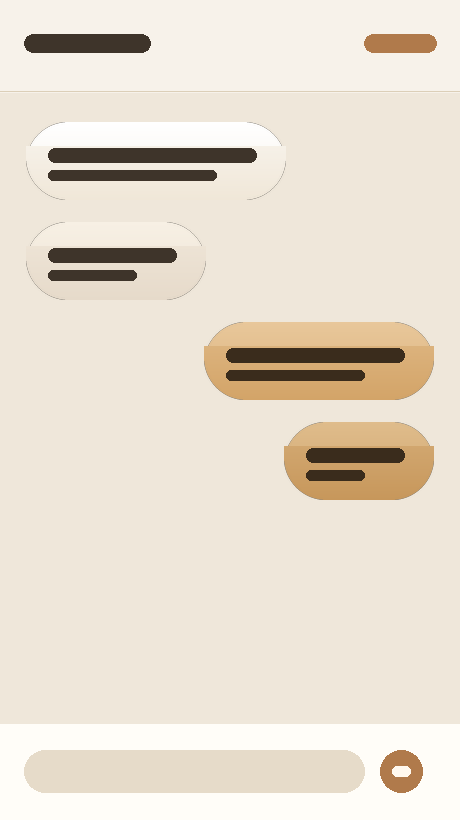
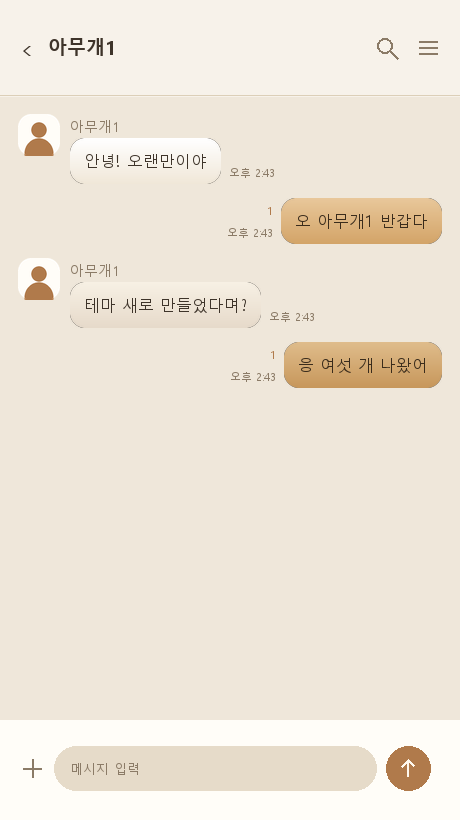
미리보기를 실제 카카오톡 화면처럼 그리고 릴리스 제목 깨짐을 고친다
미리보기에 맑은 고딕으로 진짜 글자를 넣었다. 아무개1 과 인삿말을 주고받는 화면이고,
프로필과 시간, 안 읽은 수, 입력바까지 그린다. 색만 칠한 막대였을 때는 이 색이 실제로
어떻게 보일지 가늠이 안 됐다.

말풍선 모서리가 깨지던 것도 고쳤다. 9-slice 로 늘리고 있었는데 목표 크기가 고정
가장자리의 두 배보다 작아지면 모서리가 겹친다. 어차피 둥근 사각형이라 필요한 크기로
직접 그리면 된다.

아이콘은 글꼴 글리프 대신 도형으로 그린다. 맑은 고딕에 없는 문자라 네모로 나왔다.

릴리스 제목이 "移댁뭅?ㅽ넚" 으로 깨지던 건 PowerShell 이 한글을 명령줄 인자로 넘길 때
시스템 코드페이지로 인코딩하기 때문이다. 태그 메시지는 git tag -F 로, 릴리스 제목은
gh api --input 으로 파일을 거쳐 보낸다. v0.3 제목은 API 로 이미 고쳤다.

diff --git a/docs/index.html b/docs/index.html
@@ -29,42 +29,42 @@
 <section class="card">
   <h2>먹빛 민트 <small>inkmint01</small></h2>
   <div class="chips"><span class="chip" style="background:#16181C" title="bg"></span><span class="chip" style="background:#101215" title="bg_deep"></span><span class="chip" style="background:#1E2126" title="surface"></span><span class="chip" style="background:#4FD1B0" title="accent"></span><span class="chip" style="background:#E8EBEE" title="text"></span></div>
-  <div class="shots"><figure><img src="preview-inkmint01-list.png" alt="먹빛 민트 목록"><figcaption>목록</figcaption></figure><figure><img src="preview-inkmint01-chat.png" alt="먹빛 민트 채팅방"><figcaption>채팅방</figcaption></figure><figure><img src="preview-inkmint01-splash.png" alt="먹빛 민트 실행화면"><figcaption>실행화면</figcaption></figure></div>
+  <div class="shots"><figure><img src="preview-inkmint01-list.png" alt="먹빛 민트 채팅 목록"><figcaption>채팅 목록</figcaption></figure><figure><img src="preview-inkmint01-chat.png" alt="먹빛 민트 채팅방"><figcaption>채팅방</figcaption></figure><figure><img src="preview-inkmint01-splash.png" alt="먹빛 민트 실행화면"><figcaption>실행화면</figcaption></figure></div>
   <p class="dl"><a href="../dist/iOS/inkmint01.ktheme">iOS .ktheme</a> &middot;
      <a href="../dist/android/inkmint01.apk">Android .apk</a></p>
 </section>
 <section class="card">
   <h2>크림 라떼 <small>cream02</small></h2>
   <div class="chips"><span class="chip" style="background:#F7F2EA" title="bg"></span><span class="chip" style="background:#EFE7DA" title="bg_deep"></span><span class="chip" style="background:#FFFDF8" title="surface"></span><span class="chip" style="background:#B07A4B" title="accent"></span><span class="chip" style="background:#3E342A" title="text"></span></div>
-  <div class="shots"><figure><img src="preview-cream02-list.png" alt="크림 라떼 목록"><figcaption>목록</figcaption></figure><figure><img src="preview-cream02-chat.png" alt="크림 라떼 채팅방"><figcaption>채팅방</figcaption></figure><figure><img src="preview-cream02-splash.png" alt="크림 라떼 실행화면"><figcaption>실행화면</figcaption></figure></div>
+  <div class="shots"><figure><img src="preview-cream02-list.png" alt="크림 라떼 채팅 목록"><figcaption>채팅 목록</figcaption></figure><figure><img src="preview-cream02-chat.png" alt="크림 라떼 채팅방"><figcaption>채팅방</figcaption></figure><figure><img src="preview-cream02-splash.png" alt="크림 라떼 실행화면"><figcaption>실행화면</figcaption></figure></div>
   <p class="dl"><a href="../dist/iOS/cream02.ktheme">iOS .ktheme</a> &middot;
      <a href="../dist/android/cream02.apk">Android .apk</a></p>
 </section>
 <section class="card">
   <h2>벚꽃 그늘 <small>sakura03</small></h2>
   <div class="chips"><span class="chip" style="background:#FFF6F7" title="bg"></span><span class="chip" style="background:#FDEDF0" title="bg_deep"></span><span class="chip" style="background:#FFFFFF" title="surface"></span><span class="chip" style="background:#E0698C" title="accent"></span><span class="chip" style="background:#4A3239" title="text"></span></div>
-  <div class="shots"><figure><img src="preview-sakura03-list.png" alt="벚꽃 그늘 목록"><figcaption>목록</figcaption></figure><figure><img src="preview-sakura03-chat.png" alt="벚꽃 그늘 채팅방"><figcaption>채팅방</figcaption></figure><figure><img src="preview-sakura03-splash.png" alt="벚꽃 그늘 실행화면"><figcaption>실행화면</figcaption></figure></div>
+  <div class="shots"><figure><img src="preview-sakura03-list.png" alt="벚꽃 그늘 채팅 목록"><figcaption>채팅 목록</figcaption></figure><figure><img src="preview-sakura03-chat.png" alt="벚꽃 그늘 채팅방"><figcaption>채팅방</figcaption></figure><figure><img src="preview-sakura03-splash.png" alt="벚꽃 그늘 실행화면"><figcaption>실행화면</figcaption></figure></div>
   <p class="dl"><a href="../dist/iOS/sakura03.ktheme">iOS .ktheme</a> &middot;
      <a href="../dist/android/sakura03.apk">Android .apk</a></p>
 </section>
 <section class="card">
   <h2>믹스드 <small>mixed04</small></h2>
   <div class="chips"><span class="chip" style="background:#1A1726" title="bg"></span><span class="chip" style="background:#120F1C" title="bg_deep"></span><span class="chip" style="background:#231E33" title="surface"></span><span class="chip" style="background:#FFC24D" title="accent"></span><span class="chip" style="background:#EDE9F7" title="text"></span></div>
-  <div class="shots"><figure><img src="preview-mixed04-list.png" alt="믹스드 목록"><figcaption>목록</figcaption></figure><figure><img src="preview-mixed04-chat.png" alt="믹스드 채팅방"><figcaption>채팅방</figcaption></figure><figure><img src="preview-mixed04-splash.png" alt="믹스드 실행화면"><figcaption>실행화면</figcaption></figure></div>
+  <div class="shots"><figure><img src="preview-mixed04-list.png" alt="믹스드 채팅 목록"><figcaption>채팅 목록</figcaption></figure><figure><img src="preview-mixed04-chat.png" alt="믹스드 채팅방"><figcaption>채팅방</figcaption></figure><figure><img src="preview-mixed04-splash.png" alt="믹스드 실행화면"><figcaption>실행화면</figcaption></figure></div>
   <p class="dl"><a href="../dist/iOS/mixed04.ktheme">iOS .ktheme</a> &middot;
      <a href="../dist/android/mixed04.apk">Android .apk</a></p>
 </section>
 <section class="card">
   <h2>오로라 <small>aurora05</small></h2>
   <div class="chips"><span class="chip" style="background:#0E1A22" title="bg"></span><span class="chip" style="background:#08121A" title="bg_deep"></span><span class="chip" style="background:#14242E" title="surface"></span><span class="chip" style="background:#5BE8C8" title="accent"></span><span class="chip" style="background:#E4F1F5" title="text"></span></div>
-  <div class="shots"><figure><img src="preview-aurora05-list.png" alt="오로라 목록"><figcaption>목록</figcaption></figure><figure><img src="preview-aurora05-chat.png" alt="오로라 채팅방"><figcaption>채팅방</figcaption></figure><figure><img src="preview-aurora05-splash.png" alt="오로라 실행화면"><figcaption>실행화면</figcaption></figure></div>
+  <div class="shots"><figure><img src="preview-aurora05-list.png" alt="오로라 채팅 목록"><figcaption>채팅 목록</figcaption></figure><figure><img src="preview-aurora05-chat.png" alt="오로라 채팅방"><figcaption>채팅방</figcaption></figure><figure><img src="preview-aurora05-splash.png" alt="오로라 실행화면"><figcaption>실행화면</figcaption></figure></div>
   <p class="dl"><a href="../dist/iOS/aurora05.ktheme">iOS .ktheme</a> &middot;
      <a href="../dist/android/aurora05.apk">Android .apk</a></p>
 </section>
 <section class="card">
   <h2>캔디 팝 <small>candy06</small></h2>
   <div class="chips"><span class="chip" style="background:#FFFDF5" title="bg"></span><span class="chip" style="background:#FFF8E7" title="bg_deep"></span><span class="chip" style="background:#FFFFFF" title="surface"></span><span class="chip" style="background:#FF7AA2" title="accent"></span><span class="chip" style="background:#3A3A46" title="text"></span></div>
-  <div class="shots"><figure><img src="preview-candy06-list.png" alt="캔디 팝 목록"><figcaption>목록</figcaption></figure><figure><img src="preview-candy06-chat.png" alt="캔디 팝 채팅방"><figcaption>채팅방</figcaption></figure><figure><img src="preview-candy06-splash.png" alt="캔디 팝 실행화면"><figcaption>실행화면</figcaption></figure></div>
+  <div class="shots"><figure><img src="preview-candy06-list.png" alt="캔디 팝 채팅 목록"><figcaption>채팅 목록</figcaption></figure><figure><img src="preview-candy06-chat.png" alt="캔디 팝 채팅방"><figcaption>채팅방</figcaption></figure><figure><img src="preview-candy06-splash.png" alt="캔디 팝 실행화면"><figcaption>실행화면</figcaption></figure></div>
   <p class="dl"><a href="../dist/iOS/candy06.ktheme">iOS .ktheme</a> &middot;
      <a href="../dist/android/candy06.apk">Android .apk</a></p>
 </section>

diff --git a/tools/preview.py b/tools/preview.py
@@ -6,10 +6,12 @@ gen.py 가 부른다. 직접 돌려도 된다:
     python tools/preview.py
 
 하나씩 폰에 적용해보지 않고 색을 확인하려고 만든 것이다.
-화면 세 장을 그린다 — 목록, 채팅방, 실행화면.
+화면 세 장을 그린다 — 채팅 목록, 채팅방, 실행화면.
 실행화면은 안드로이드에만 있는 화면이지만 색 확인용으로 같이 그린다.
 
-글자는 넣지 않는다. 폰트가 환경마다 다르고, 색만 보이면 목적은 달성된다.
+말풍선은 9-slice 로 늘리지 않고 필요한 크기로 직접 그린다. 늘리는 방식은
+목표 크기가 고정 가장자리(cap)의 두 배보다 작아지면 모서리가 겹쳐 깨진다.
+어차피 둥근 사각형이라 어떤 크기로든 정확히 그릴 수 있다.
 """
 import os
 import sys
@@ -18,117 +20,259 @@ import sys
 if hasattr(sys.stdout, 'reconfigure'):
     sys.stdout.reconfigure(encoding='utf-8')
 
-from PIL import Image, ImageDraw
+from PIL import Image, ImageDraw, ImageFont
 
 sys.path.insert(0, os.path.dirname(os.path.abspath(__file__)))
 import gen  # noqa: E402
 
 rgb = gen.rgb
 W, H = 460, 820
-HEAD, FOOT = 92, 96
+HEAD, FOOT = 96, 100
+RADIUS = 15          # 말풍선 모서리. 실제 PNG 의 cap inset 과 같은 느낌으로 맞춘다
+SS = 4               # 계단현상을 없애려고 이 배율로 그렸다 줄인다
+
+
+def _font(size, bold=False):
+    """맑은 고딕. 없으면 기본 폰트로 떨어진다(한글은 깨지지만 그림은 나온다)."""
+    for name in (('malgunbd.ttf', 'malgun.ttf') if bold else ('malgun.ttf',)):
+        for base in (r'C:\Windows\Fonts', '/usr/share/fonts/truetype/nanum'):
+            p = os.path.join(base, name)
+            if os.path.exists(p):
+                return ImageFont.truetype(p, size)
+    return ImageFont.load_default()
+
+
+F_TITLE = _font(19, bold=True)
+F_NAME = _font(14)
+F_MSG = _font(16)
+F_TIME = _font(11)
+F_LIST_NAME = _font(16, bold=True)
+F_LIST_MSG = _font(13)
+F_TAB = _font(11)
+F_ICON = _font(20)
+
+# 주고받는 내용. 색을 보려고 만든 그림이라 내용은 최소한으로 둔다.
+CHAT = [
+    ('them', '안녕! 오랜만이야'),
+    ('me', '오 아무개1 반갑다'),
+    ('them', '테마 새로 만들었다며?'),
+    ('me', '응 여섯 개 나왔어'),
+]
+
+
+def _text_w(d, s, font):
+    return d.textbbox((0, 0), s, font=font)[2]
 
 
 def _round(d, box, r, fill):
     d.rounded_rectangle(box, radius=r, fill=fill)
 
 
-def stretched(pal, w, h):
-    """말풍선을 실제 크기로 늘린 그림. 9-slice 라서 모서리가 안 뭉개진다."""
-    b = gen.bubble(3, pal)
-    s = b.size[0]
-    cap = gen.CAP * 3
+def bubble_box(w, h, colors, radius=RADIUS):
+    """말풍선 하나를 정확히 w x h 로 그린다. 세로 그라데이션."""
+    mask = Image.new('L', (w * SS, h * SS), 0)
+    ImageDraw.Draw(mask).rounded_rectangle(
+        [0, 0, w * SS - 1, h * SS - 1], radius=radius * SS, fill=255)
+    mask = mask.resize((w, h), Image.LANCZOS)
     out = Image.new('RGBA', (w, h), (0, 0, 0, 0))
-    src = [(0, 0, cap, cap), (cap, 0, s - cap, cap), (s - cap, 0, s, cap),
-           (0, cap, cap, s - cap), (cap, cap, s - cap, s - cap), (s - cap, cap, s, s - cap),
-           (0, s - cap, cap, s), (cap, s - cap, s - cap, s), (s - cap, s - cap, s, s)]
-    dst = [(0, 0, cap, cap), (cap, 0, w - cap, cap), (w - cap, 0, w, cap),
-           (0, cap, cap, h - cap), (cap, cap, w - cap, h - cap), (w - cap, cap, w, h - cap),
-           (0, h - cap, cap, h), (cap, h - cap, w - cap, h), (w - cap, h - cap, w, h)]
-    for a, d in zip(src, dst):
-        dw, dh = d[2] - d[0], d[3] - d[1]
-        if dw > 0 and dh > 0:
-            out.paste(b.crop(a).resize((dw, dh), Image.LANCZOS), (d[0], d[1]))
+    out.paste(gen.vgradient(w, h, rgb(colors[0]), rgb(colors[1])), (0, 0), mask)
     return out
 
 
-def _header(img, t):
+def avatar(size, t, i):
+    """프로필. 카톡은 둥근 사각형이다."""
+    img = Image.new('RGBA', (size * SS, size * SS), (0, 0, 0, 0))
+    d = ImageDraw.Draw(img)
+    d.rounded_rectangle([0, 0, size * SS - 1, size * SS - 1],
+                        radius=int(size * SS * 0.32), fill=rgb(t['surface']))
+    c = rgb(t['accent'] if i % 2 == 0 else t['subtext'])
+    r = size * SS
+    d.ellipse([r * 0.32, r * 0.20, r * 0.68, r * 0.56], fill=c)          # 머리
+    d.ellipse([r * 0.16, r * 0.58, r * 0.84, r * 1.30], fill=c)          # 몸
+    return img.resize((size, size), Image.LANCZOS)
+
+
+# --- 아이콘 --------------------------------------------------------------
+# 글꼴 글리프(⌕ ☰ 같은 것)를 쓰면 맑은 고딕에 없는 문자가 네모로 나온다.
+# 필요한 것만 도형으로 직접 그린다.
+
+def ic_search(d, cx, cy, c, r=9):
+    d.ellipse([cx - r, cy - r, cx + r - 3, cy + r - 3], outline=c, width=2)
+    d.line([(cx + r - 5, cy + r - 5), (cx + r + 2, cy + r + 2)], fill=c, width=2)
+
+
+def ic_menu(d, cx, cy, c, w=18):
+    for k in (-6, 0, 6):
+        d.line([(cx - w // 2, cy + k), (cx + w // 2, cy + k)], fill=c, width=2)
+
+
+def ic_plus(d, cx, cy, c, r=9):
+    d.line([(cx - r, cy), (cx + r, cy)], fill=c, width=2)
+    d.line([(cx, cy - r), (cx, cy + r)], fill=c, width=2)
+
+
+def ic_send(d, cx, cy, c, r=8):
+    d.line([(cx, cy + r), (cx, cy - r)], fill=c, width=2)
+    d.line([(cx - r + 2, cy - r + 6), (cx, cy - r)], fill=c, width=2)
+    d.line([(cx + r - 2, cy - r + 6), (cx, cy - r)], fill=c, width=2)
+
+
+def ic_person(d, cx, cy, c):
+    d.ellipse([cx - 6, cy - 10, cx + 6, cy + 2], fill=c)
+    d.pieslice([cx - 11, cy - 2, cx + 11, cy + 18], 180, 360, fill=c)
+
+
+def ic_bubble(d, cx, cy, c):
+    d.rounded_rectangle([cx - 11, cy - 9, cx + 11, cy + 6], radius=5, fill=c)
+    d.polygon([(cx - 5, cy + 5), (cx - 1, cy + 5), (cx - 5, cy + 11)], fill=c)
+
+
+def ic_circle(d, cx, cy, c):
+    d.ellipse([cx - 10, cy - 10, cx + 10, cy + 10], outline=c, width=2)
+    d.ellipse([cx - 4, cy - 4, cx + 4, cy + 4], fill=c)
+
+
+def ic_bag(d, cx, cy, c):
+    d.rounded_rectangle([cx - 9, cy - 4, cx + 9, cy + 10], radius=3, fill=c)
+    d.arc([cx - 6, cy - 12, cx + 6, cy + 2], 180, 360, fill=c, width=2)
+
+
+def ic_dots(d, cx, cy, c):
+    for k in (-8, 0, 8):
+        d.ellipse([cx + k - 2, cy - 2, cx + k + 2, cy + 2], fill=c)
+
+
+def _header(img, t, title, back=False):
     d = ImageDraw.Draw(img)
     d.rectangle([0, 0, W, HEAD], fill=rgb(t['bg']))
-    _round(d, [24, 34, 150, 52], 9, rgb(t['text']))
-    _round(d, [W - 96, 34, W - 24, 52], 9, rgb(t['accent']))
+    x = 22
+    if back:
+        d.text((x, 46), '‹', font=_font(30), fill=rgb(t['text']), anchor='lm')
+        x += 26
+    d.text((x, 47), title, font=F_TITLE, fill=rgb(t['text']), anchor='lm')
+    ic_search(d, W - 74, 47, rgb(t['subtext']))
+    ic_menu(d, W - 32, 47, rgb(t['subtext']))
     d.line([(0, HEAD - 1), (W, HEAD - 1)], fill=rgb(t['border']))
 
 
 def chat(t):
-    """채팅방. 말풍선 네 칸을 전부 보여준다 — 알록달록한 테마는 여기서 드러난다."""
+    """채팅방. 말풍선 네 칸을 모두 보여준다 — 알록달록한 테마는 여기서 드러난다."""
     img = Image.new('RGB', (W, H), rgb(t['bg']))
     body = H - HEAD - FOOT
     if t['chat_bg']:
         img.paste(gen.chat_bg(t['chat_bg'], W, body), (0, HEAD))
     else:
         img.paste(Image.new('RGB', (W, body), rgb(t['bg_deep'])), (0, HEAD))
-    _header(img, t)
-
-    rows = [('recv', 'recv', 260), ('recv', 'recv_alt', 180),
-            ('send', 'send', 230), ('send', 'send_alt', 150)]
-    y = HEAD + 30
-    for side, key, bw in rows:
-        bh = 78
-        x = 26 if side == 'recv' else W - 26 - bw
-        b = stretched(t[key], bw, bh)
-        img.paste(b, (x, y), b)
-        d = ImageDraw.Draw(img)
-        tc = rgb(t['recv_text'] if side == 'recv' else t['send_text'])
-        _round(d, [x + 22, y + 26, x + bw - 30, y + 40], 7, tc)
-        _round(d, [x + 22, y + 48, x + bw - 70, y + 58], 5, tc)
-        y += bh + 22
-
+    _header(img, t, '아무개1', back=True)
     d = ImageDraw.Draw(img)
+
+    pad_x, pad_y = 14, 10
+    y = HEAD + 18
+    for i, (side, msg) in enumerate(CHAT):
+        # 짝수/홀수로 01 과 02 를 번갈아 쓴다. 두 칸의 색 차이가 눈에 보이게
+        key = ('recv' if side == 'them' else 'send') + ('' if i % 4 < 2 else '_alt')
+        colors = t[key]
+        tc = rgb(t['recv_text'] if side == 'them' else t['send_text'])
+
+        tw = _text_w(d, msg, F_MSG)
+        bw, bh = tw + pad_x * 2, 26 + pad_y * 2
+
+        if side == 'them':
+            if i == 0 or CHAT[i - 1][0] != 'them':
+                av = avatar(42, t, i)
+                img.paste(av, (18, y), av)
+                d.text((70, y + 2), '아무개1', font=F_NAME, fill=rgb(t['subtext']))
+                y += 24
+            bx = 70
+            b = bubble_box(bw, bh, colors)
+            img.paste(b, (bx, y), b)
+            d.text((bx + pad_x, y + pad_y + 1), msg, font=F_MSG, fill=tc)
+            d.text((bx + bw + 8, y + bh - 12), '오후 2:43',
+                   font=F_TIME, fill=rgb(t['subtext']), anchor='lm')
+        else:
+            bx = W - 18 - bw
+            b = bubble_box(bw, bh, colors)
+            img.paste(b, (bx, y), b)
+            d.text((bx + pad_x, y + pad_y + 1), msg, font=F_MSG, fill=tc)
+            d.text((bx - 8, y + bh - 12), '오후 2:43',
+                   font=F_TIME, fill=rgb(t['subtext']), anchor='rm')
+            d.text((bx - 8, y + 12), '1', font=F_TIME, fill=rgb(t['accent']), anchor='rm')
+        y += bh + 14
+
+    # 입력바
     d.rectangle([0, H - FOOT, W, H], fill=rgb(t['surface']))
-    _round(d, [24, H - FOOT + 26, W - 96, H - FOOT + 68], 21, rgb(t['pressed']))
-    d.ellipse([W - 80, H - FOOT + 26, W - 38, H - FOOT + 68], fill=rgb(t['accent']))
-    _round(d, [W - 68, H - FOOT + 42, W - 50, H - FOOT + 52], 5, rgb(t['on_accent']))
+    ic_plus(d, 32, H - FOOT + 48, rgb(t['subtext']))
+    _round(d, [54, H - FOOT + 26, W - 84, H - FOOT + 70], 22, rgb(t['pressed']))
+    d.text((70, H - FOOT + 48), '메시지 입력', font=F_LIST_MSG,
+           fill=rgb(t['subtext']), anchor='lm')
+    d.ellipse([W - 74, H - FOOT + 26, W - 30, H - FOOT + 70], fill=rgb(t['accent']))
+    ic_send(d, W - 52, H - FOOT + 48, rgb(t['on_accent']))
     return img
 
 
+ROWS = [
+    ('아무개1', '응 여섯 개 나왔어', '오후 2:43', 0),
+    ('아무개2', '내일 몇 시에 볼까?', '오후 1:20', 2),
+    ('아무개3', '사진 보냈어 확인해줘', '오전 11:05', 0),
+    ('아무개4', 'ㅋㅋㅋㅋㅋㅋ', '어제', 0),
+    ('아무개5', '고마워!', '어제', 1),
+]
+
+
 def chat_list(t):
-    """친구탭/채팅목록. 목록 쪽 색과 눌린 줄이 여기서 드러난다."""
+    """채팅 목록. 목록 쪽 색과 눌린 줄이 여기서 드러난다."""
     img = Image.new('RGB', (W, H), rgb(t['bg']))
-    _header(img, t)
+    _header(img, t, '채팅')
     d = ImageDraw.Draw(img)
 
-    y = HEAD + 20
-    _round(d, [26, y, 110, y + 14], 6, rgb(t['subtext']))
-    d.line([(0, y + 30), (W, y + 30)], fill=rgb(t['border']))
-    y += 44
+    y = HEAD + 12
+    d.text((22, y + 8), '채팅 5', font=F_LIST_MSG, fill=rgb(t['subtext']))
+    y += 34
 
-    for i in range(6):
-        if y + 92 > H - FOOT:
+    for i, (name, msg, when, unread) in enumerate(ROWS):
+        rh = 84
+        if y + rh > H - FOOT:
             break
-        d.rectangle([0, y, W, y + 92], fill=rgb(t['pressed'] if i == 1 else t['bg']))
-        d.ellipse([26, y + 18, 82, y + 74], fill=rgb(t['surface']))
-        d.ellipse([34, y + 26, 74, y + 66], fill=rgb(t['accent'] if i % 3 == 0 else t['subtext']))
-        _round(d, [100, y + 28, 250 - i * 12, y + 44], 7, rgb(t['text']))
-        _round(d, [100, y + 52, 330 - i * 18, y + 64], 6, rgb(t['subtext']))
-        if i % 2 == 0:
-            d.ellipse([W - 60, y + 40, W - 32, y + 68], fill=rgb(t['accent']))
-        d.line([(100, y + 91), (W, y + 91)], fill=rgb(t['border']))
-        y += 92
+        d.rectangle([0, y, W, y + rh], fill=rgb(t['pressed'] if i == 1 else t['bg']))
+        av = avatar(52, t, i)
+        img.paste(av, (22, y + 16), av)
+        d.text((90, y + 22), name, font=F_LIST_NAME, fill=rgb(t['text']))
+        d.text((90, y + 48), msg, font=F_LIST_MSG, fill=rgb(t['subtext']))
+        d.text((W - 22, y + 26), when, font=F_TIME, fill=rgb(t['subtext']), anchor='rm')
+        if unread:
+            r = 11
+            cx, cy = W - 34, y + 56
+            d.ellipse([cx - r, cy - r, cx + r, cy + r], fill=rgb(t['accent']))
+            d.text((cx, cy - 1), str(unread), font=F_TIME,
+                   fill=rgb(t['on_accent']), anchor='mm')
+        d.line([(90, y + rh - 1), (W, y + rh - 1)], fill=rgb(t['border']))
+        y += rh
 
+    # 탭바
     d.rectangle([0, H - FOOT, W, H], fill=rgb(t['bg']))
     d.line([(0, H - FOOT), (W, H - FOOT)], fill=rgb(t['border']))
-    for i in range(5):
-        cx = int(W * (i + 0.5) / 5)
-        c = t['accent'] if i == 1 else t['subtext']
-        _round(d, [cx - 16, H - FOOT + 28, cx + 16, H - FOOT + 60], 9, rgb(c))
+    tabs = [('친구', ic_person), ('채팅', ic_bubble), ('오픈채팅', ic_circle),
+            ('쇼핑', ic_bag), ('더보기', ic_dots)]
+    for i, (label, icon) in enumerate(tabs):
+        cx = int(W * (i + 0.5) / len(tabs))
+        c = rgb(t['accent'] if i == 1 else t['subtext'])
+        icon(d, cx, H - FOOT + 34, c)
+        d.text((cx, H - FOOT + 64), label, font=F_TAB, fill=c, anchor='mm')
     return img
 
 
 def splash(t):
-    return gen.splash(t, W, H)
+    """안드로이드 실행화면. iOS 규격에는 이 블록이 없다."""
+    img = gen.splash(t, W, H)
+    d = ImageDraw.Draw(img)
+    d.text((W // 2, int(H * 0.42)), '카카오톡', font=_font(26, bold=True),
+           fill=rgb(t['text']), anchor='mm')
+    d.text((W // 2, H - 60), t['name'], font=F_LIST_MSG,
+           fill=rgb(t['subtext']), anchor='mm')
+    return img
 
 
-SHOTS = (('list', '목록'), ('chat', '채팅방'), ('splash', '실행화면'))
+SHOTS = (('list', '채팅 목록'), ('chat', '채팅방'), ('splash', '실행화면'))
 
 PAGE = """<!doctype html>
 <html lang="ko"><meta charset="utf-8">

diff --git a/CLAUDE.md b/CLAUDE.md
@@ -112,6 +112,10 @@ powershell -ExecutionPolicy Bypass -File release.ps1 -Version 0.4 -NotesFile not
 - gradle 은 쓰지 않는다. 코드 없는 리소스 전용 APK 라 `aapt2` → `zipalign` → `apksigner` 면 끝난다.
 - **네이티브 exe 의 stderr 를 `2>&1` 로 받지 않는다.** PowerShell 5.1 은 그렇게 받으면 종료코드가
   0이어도 `NativeCommandError` 로 승격시켜 빌드가 실패한 것처럼 보인다. apksigner 가 여기 걸렸다.
+- **한글을 네이티브 프로그램의 명령줄 인자로 넘기지 않는다.** PowerShell 이 시스템 코드페이지로
+  인코딩해서 깨진다. `gh release create --title "카카오톡 테마 0.3"` 이 "移댁뭅?ㅽ넚" 이 됐다.
+  파일을 거쳐 보낸다 — `git tag -F`, `gh api --input <json>`. 표준입력이나 `--notes-file` 로
+  들어가는 내용은 멀쩡하다. 인자만 문제다.
 - **파이썬 출력은 UTF-8 로 고정한다.** 윈도우 기본이 cp949 라 한글이 깨진다.
   `sys.stdout.reconfigure(encoding='utf-8')` 을 도구 맨 위에 둔다.
   PowerShell 쪽은 `[Console]::OutputEncoding` 을 UTF-8 로 둔다.
